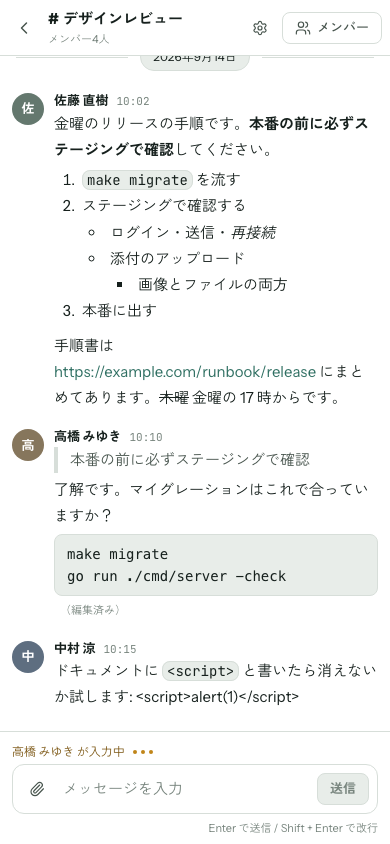
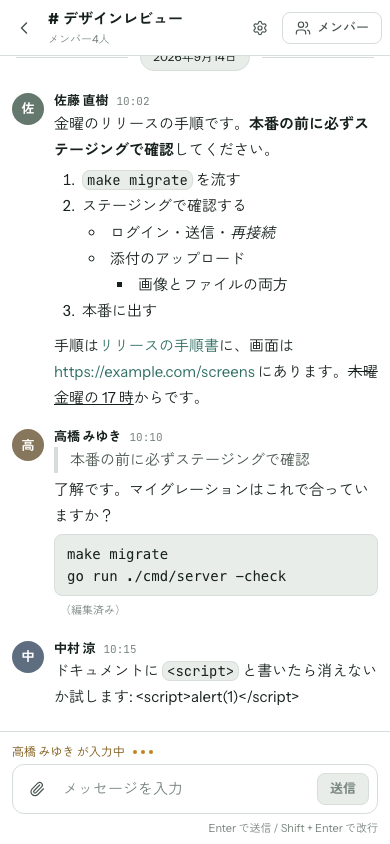
feat(web): 本文の記法に下線と文字付きのリンクを足す（Phase 6.10b の構築順 2）
ADR 0051 の追記。Slack にある下線（__下線__）と、貼り付けで文字と URL の両方を残すための
文字付きのリンク（<URL|文字>）を解釈して表示する。文字付きのリンクは URL をホバーで見せる。
文字に < > ` と改行を使えないのは、サーバーと Web でメンションの数え方をずらさないためで、
その例を testdata/format/mentions.json に足した（サーバーは変更なしで通る）。
ADR 0052 に Slack の公式のツールバーの並びとショートカット、ツールバーの表示・非表示を追記した。

Changed region(s): [[0.1231, 0.4005, 0.9846, 0.4929], [0.2154, 0.4005, 0.3077, 0.4313]]

diff --git a/web/lib/chat/body-format.ts b/web/lib/chat/body-format.ts
@@ -7,16 +7,18 @@
  * 記法（mrkdwn 寄り。ADR 0051 決定 2）
  *
  *   ブロック: ```コード```  / 行頭の `> ` 引用 / 行頭の `- ` `* ` `• ` 箇条書き / 行頭の `1. ` 番号付き
- *   インライン: `code` / *太字* / _斜体_ / ~取り消し~ / https://… / <@ULID> <!channel> <!here>
+ *   インライン: `code` / *太字* / _斜体_ / __下線__ / ~取り消し~ / https://… / <https://…|文字> / <@ULID> <!channel> <!here>
+ *   （下線と文字付きのリンクは ADR 0051 決定 4 の追記と、同じく下線の追記）
  *
  * 規則の具体例は body-format.test.ts が正本。コードの範囲の規則はサーバー（internal/chat/mention）にも同じものがある（ADR 0051 決定 5）。
  */
 
 export type Inline =
   | { type: "text"; text: string }
-  | { type: "bold" | "italic" | "strike"; children: Inline[] }
+  | { type: "bold" | "italic" | "underline" | "strike"; children: Inline[] }
   | { type: "code"; text: string }
-  | { type: "link"; url: string }
+  /** label は文字付きのリンク（`<URL|文字>`）の文字。URL だけのリンクでは undefined。 */
+  | { type: "link"; url: string; label?: string }
   | { type: "mention"; kind: "user"; id: string; raw: string }
   | { type: "mention"; kind: "channel" | "here"; raw: string };
 
@@ -47,6 +49,13 @@ const LIST_LINE = /^( *)(?:([-*•])|(\d{1,9})\.) (.*)$/u;
 /** 引用の行。`>` の後ろの空白 1 つは記号の一部として落とす。 */
 const QUOTE_LINE = /^>(?: |$)(.*)$/u;
 
+/**
+ * 文字付きのリンク（`<https://…|文字>`。ADR 0051 決定 4 の追記）。
+ * 文字には `<` `>` `` ` `` と改行を使えない。サーバーはコードの範囲とメンションしか読まないので、文字の中にバッククォートや `<` を許すと、
+ * サーバーと Web で「どれがメンションか」の読み方がずれる（testdata/format/mentions.json に例がある）。
+ */
+const LABELED_LINK = /^<(https?:\/\/[^\s<>`|]+)\|([^<>`\n]+)>/u;
+
 /** メンションのトークン（ADR 0041）。ULID の厳密な検証は表示ではしない（mentions.ts と同じ理由）。 */
 const MENTION = /^(?:<@([0-9A-Za-z]{26})>|<!(channel|here)>)/u;
 
@@ -58,6 +67,9 @@ const URL_EXCLUDED = new Set(["<", ">", "`"]);
 const URL_TRAILING = /[.,;:!?)\]}'"*_~]+$/u;
 
 const EMPHASIS: Readonly<Record<string, "bold" | "italic" | "strike">> = { "*": "bold", _: "italic", "~": "strike" };
+
+/** 下線の記号（ADR 0051 の下線の追記）。斜体の `_` を 2 つ重ねた形。 */
+const UNDERLINE = "__";
 
 /** 本文を木に分ける。 */
 export function parseBody(body: string): Block[] {
@@ -161,12 +173,14 @@ export function parseInline(text: string): Inline[] {
       i = atom.end;
       continue;
     }
-    const kind = EMPHASIS[text[i]];
-    const close = kind ? findCloser(text, i) : -1;
+    // 下線（`__`）は斜体（`_`）より先に見る。`__` は斜体の開く記号にならない（findCloser）
+    const marker = text.startsWith(UNDERLINE, i) ? UNDERLINE : text[i];
+    const kind = marker === UNDERLINE ? "underline" : EMPHASIS[marker];
+    const close = kind ? findCloser(text, i, marker) : -1;
     if (kind && close > 0) {
       flush();
-      out.push({ type: kind, children: parseInline(text.slice(i + 1, close)) });
-      i = close + 1;
+      out.push({ type: kind, children: parseInline(text.slice(i + marker.length, close)) });
+      i = close + marker.length;
       continue;
     }
     plain += text[i];
@@ -187,6 +201,8 @@ function readAtom(text: string, i: number): { node: Inline; end: number } | null
     return null;
   }
   if (c === "<") {
+    const labeled = LABELED_LINK.exec(text.slice(i));
+    if (labeled) return { node: { type: "link", url: labeled[1], label: labeled[2] }, end: i + labeled[0].length };
     const m = MENTION.exec(text.slice(i));
     if (!m) return null;
     const raw = m[0];
@@ -206,17 +222,17 @@ function readAtom(text: string, i: number): { node: Inline; end: number } | null
 }
 
 /**
- * i にある書式の記号（`*` `_` `~`）が開く記号なら、対になる閉じる記号の位置を返す。なければ -1。
+ * i にある書式の記号（`*` `_` `__` `~`）が開く記号なら、対になる閉じる記号の位置を返す。なければ -1。
  *
  * 境界は「ASCII の英数字でないこと」（ADR 0051 決定 2）。日本語の文字は境界になるので `これは*太字*です` は太字になり、
  * `snake_case` や `2*3*4` はならない。開く記号の直後と閉じる記号の直前は空白であってはいけない。
  * 中のインラインコード・メンション・URL は飛ばして探す（`*a `*` b*` の真ん中の `*` で閉じない）。
+ * 斜体の `_` を探すときは下線の `__` を飛ばす（`_a __b__ c_` の `b__` で斜体を閉じない）。
  */
-function findCloser(text: string, i: number): number {
-  const marker = text[i];
-  const next = text[i + 1];
-  if (isWordChar(text[i - 1]) || next === undefined || /\s/u.test(next) || next === marker) return -1;
-  let j = i + 1;
+function findCloser(text: string, i: number, marker: string): number {
+  const next = text[i + marker.length];
+  if (isWordChar(text[i - 1]) || next === undefined || /\s/u.test(next) || next === marker[0]) return -1;
+  let j = i + marker.length;
   while (j < text.length) {
     const c = text[j];
     if (c === "\n") return -1;
@@ -225,7 +241,17 @@ function findCloser(text: string, i: number): number {
       j = atom.end;
       continue;
     }
-    if (c === marker && !/\s/u.test(text[j - 1]) && !isWordChar(text[j + 1])) return j;
+    if (marker === "_" && text.startsWith(UNDERLINE, j)) {
+      j += UNDERLINE.length;
+      continue;
+    }
+    if (
+      text.startsWith(marker, j) &&
+      !/\s/u.test(text[j - 1]) &&
+      !isWordChar(text[j + marker.length]) &&
+      text[j + marker.length] !== marker[0]
+    )
+      return j;
     j++;
   }
   return -1;
@@ -280,7 +306,7 @@ export function findUrls(body: string): string[] {
   const inline = (nodes: Inline[]) => {
     for (const node of nodes) {
       if (node.type === "link") urls.push(node.url);
-      else if (node.type === "bold" || node.type === "italic" || node.type === "strike") inline(node.children);
+      else if ("children" in node) inline(node.children);
     }
   };
   const block = (b: Block) => {

diff --git a/web/lib/chat/body-format.test.ts b/web/lib/chat/body-format.test.ts
@@ -10,6 +10,7 @@ const text = (t: string): Inline => ({ type: "text", text: t });
 const bold = (...children: Inline[]): Inline => ({ type: "bold", children });
 const italic = (...children: Inline[]): Inline => ({ type: "italic", children });
 const strike = (...children: Inline[]): Inline => ({ type: "strike", children });
+const underline = (...children: Inline[]): Inline => ({ type: "underline", children });
 const code = (t: string): Inline => ({ type: "code", text: t });
 const link = (url: string): Inline => ({ type: "link", url });
 const para = (...children: Inline[]): Block => ({ type: "paragraph", children });
@@ -50,6 +51,46 @@ describe("parseInline（ADR 0051 決定 2）", () => {
     ["太字の中のメンション", "*<!here>*", [bold({ type: "mention", kind: "here", raw: "<!here>" })]],
     ["トークンに見えない文字列はそのまま", "@alice <@01J8> <!everyone>", [text("@alice <@01J8> <!everyone>")]],
     ["<script> はただの文字", "<script>alert(1)</script>", [text("<script>alert(1)</script>")]],
+  ])("%s", (_name, input, want) => {
+    expect(parseInline(input)).toEqual(want);
+  });
+});
+
+describe("下線（ADR 0051 の下線の追記）", () => {
+  it.each<[string, string, Inline[]]>([
+    ["下線", "__下線__", [underline(text("下線"))]],
+    ["日本語の文中でも効く", "ここは__大事__です", [text("ここは"), underline(text("大事")), text("です")]],
+    ["英数字に挟まれた __ は書式にしない", "a__b__c", [text("a__b__c")]],
+    // 行頭や空白の後に単独で書いた `__init__` は、境界の規則どおり下線になる（コードとして書くならバッククォートで囲む）
+    ["単独の __init__ は下線になる", "__init__", [underline(text("init"))]],
+    ["斜体の中の下線", "_a __b__ c_", [italic(text("a "), underline(text("b")), text(" c"))]],
+    ["下線の中の太字", "__*両方*__", [underline(bold(text("両方")))]],
+    ["閉じていない下線はただの文字", "__下線", [text("__下線")]],
+  ])("%s", (_name, input, want) => {
+    expect(parseInline(input)).toEqual(want);
+  });
+});
+
+describe("文字付きのリンク（ADR 0051 決定 4 の追記）", () => {
+  const labeled = (url: string, label: string): Inline => ({ type: "link", url, label });
+  it.each<[string, string, Inline[]]>([
+    ["文字付きのリンク", "<https://example.com/docs|手順書>", [labeled("https://example.com/docs", "手順書")]],
+    ["文中に置ける", "詳しくは<https://example.com|こちら>へ", [text("詳しくは"), labeled("https://example.com", "こちら"), text("へ")]],
+    ["太字の中に置ける", "*<https://example.com|大事なリンク>*", [bold(labeled("https://example.com", "大事なリンク"))]],
+    ["文字の中は解釈しない", "<https://example.com|*太字* _斜体_>", [labeled("https://example.com", "*太字* _斜体_")]],
+    ["http / https でなければただの文字", "<javascript:alert(1)|押して>", [text("<javascript:alert(1)|押して>")]],
+    [
+      "文字にバッククォートがあれば文字付きのリンクにしない（コードとして読む）",
+      "<https://example.com|a`b>`",
+      [text("<"), link("https://example.com|a"), code("b>")],
+    ],
+    [
+      "文字に < があれば文字付きのリンクにしない",
+      "<https://example.com|a <!here>>",
+      [text("<"), link("https://example.com|a"), text(" "), { type: "mention", kind: "here", raw: "<!here>" }, text(">")],
+    ],
+    ["文字が空なら文字付きのリンクにしない", "<https://example.com|>", [text("<"), link("https://example.com|"), text(">")]],
+    ["コードの中は解釈しない", "`<https://example.com|x>`", [code("<https://example.com|x>")]],
   ])("%s", (_name, input, want) => {
     expect(parseInline(input)).toEqual(want);
   });
@@ -181,7 +222,7 @@ function mentionTokens(blocks: Block[]): string[] {
   const inline = (nodes: Inline[]) => {
     for (const node of nodes) {
       if (node.type === "mention") found.push(node.raw);
-      else if (node.type === "bold" || node.type === "italic" || node.type === "strike") inline(node.children);
+      else if ("children" in node) inline(node.children);
     }
   };
   const block = (b: Block) => {

diff --git a/web/components/chat/message-body.tsx b/web/components/chat/message-body.tsx
@@ -133,6 +133,12 @@ function InlineView({ node, ctx }: { node: Inline; ctx: RenderContext }) {
           <Inlines nodes={node.children} ctx={ctx} />
         </em>
       );
+    case "underline":
+      return (
+        <u className="underline">
+          <Inlines nodes={node.children} ctx={ctx} />
+        </u>
+      );
     case "strike":
       return (
         <s className="line-through">
@@ -144,19 +150,28 @@ function InlineView({ node, ctx }: { node: Inline; ctx: RenderContext }) {
         <code className="rounded-sm border border-border bg-surface-muted px-1 font-mono text-base text-text">{node.text}</code>
       );
     case "link": {
-      if (!ctx.interactive) return <span className="text-primary">{node.url}</span>;
+      // 文字付きのリンク（ADR 0051 決定 4 の追記）は文字を出し、行き先の URL をホバーで見せる。
+      // 文字と行き先が違うリンクは、行き先を隠したなりすましに使えるため
+      const text = node.label ?? node.url;
+      const title = node.label === undefined ? undefined : node.url;
+      if (!ctx.interactive)
+        return (
+          <span title={title} className="text-primary">
+            {text}
+          </span>
+        );
       // パーマリンクはアプリの中を移るので、同じタブで飛ぶ（ADR 0051 決定 4。飛ぶ仕組みは ADR 0042）
       const permalink = ctx.origin === undefined ? null : parsePermalink(node.url, ctx.origin);
       if (permalink)
         return (
-          <Link href={permalinkPath(permalink)} className="text-primary hover:underline">
-            {node.url}
+          <Link href={permalinkPath(permalink)} title={title} className="text-primary hover:underline">
+            {text}
           </Link>
         );
       return (
         // 別のタブで開く（オーナーの要望。ADR 0051 決定 4）。開いた先から window.opener を触らせない
-        <a href={node.url} target="_blank" rel="noopener noreferrer" className="text-primary hover:underline">
-          {node.url}
+        <a href={node.url} title={title} target="_blank" rel="noopener noreferrer" className="text-primary hover:underline">
+          {text}
         </a>
       );
     }

diff --git a/web/components/chat/message-body.test.tsx b/web/components/chat/message-body.test.tsx
@@ -161,4 +161,34 @@ describe("MessageBody の書式（ADR 0051）", () => {
     expect(screen.getByText("@田中 あおい")).toHaveClass("text-primary");
     expect(screen.getByText("https://example.com")).toHaveClass("text-primary");
   });
+
+  it("下線は u 要素で出す（ADR 0051 の下線の追記）", () => {
+    render(<MessageBody body="ここは__大事__です" />);
+
+    expect(screen.getByText("大事").tagName).toBe("U");
+  });
+
+  it("文字付きのリンクは文字をリンクにし、行き先の URL をホバーで見せる（ADR 0051 決定 4 の追記）", () => {
+    render(<MessageBody body="<https://example.com/docs|手順書> を見てください" />);
+
+    const link = screen.getByRole("link", { name: "手順書" });
+    expect(link).toHaveAttribute("href", "https://example.com/docs");
+    expect(link).toHaveAttribute("title", "https://example.com/docs");
+    expect(link).toHaveAttribute("target", "_blank");
+  });
+
+  it("URL だけのリンクには title を付けない（文字がそのまま行き先なので）", () => {
+    render(<MessageBody body="https://example.com" />);
+
+    expect(screen.getByRole("link")).not.toHaveAttribute("title");
+  });
+
+  it("文字付きのパーマリンクも同じタブで飛ぶ", () => {
+    const ids = "01J9ZQZQZQZQZQZQZQZQZQZQZ";
+    render(<MessageBody body={`<${window.location.origin}/w/${ids}A/r/${ids}B?m=${ids}C|この発言>`} />);
+
+    const link = screen.getByRole("link", { name: "この発言" });
+    expect(link).toHaveAttribute("href", `/w/${ids}A/r/${ids}B?m=${ids}C`);
+    expect(link).not.toHaveAttribute("target");
+  });
 });

diff --git a/web/stories/fixtures.ts b/web/stories/fixtures.ts
@@ -490,7 +490,7 @@ export const timelineWithFormatting: TimelineItem[] = [
     "10:02",
     "金曜のリリースの手順です。*本番の前に必ずステージングで確認*してください。\n1. `make migrate` を流す\n2. ステージングで確認する\n  - ログイン・送信・_再接続_\n  - 添付のアップロード\n    - 画像とファイルの両方\n3. 本番に出す",
   ),
-  message("m-f02", naoki, "10:03", "手順書は https://example.com/runbook/release にまとめてあります。~木曜~ 金曜の 17 時からです。", {
+  message("m-f02", naoki, "10:03", "手順は<https://example.com/runbook/release|リリースの手順書>に、画面は https://example.com/screens にあります。~木曜~ __金曜の 17 時__からです。", {
     grouped: true,
   }),
   message("m-f03", miyuki, "10:10", "> 本番の前に必ずステージングで確認\n了解です。マイグレーションはこれで合っていますか？\n```\nmake migrate\ngo run ./cmd/server -check\n```", {

diff --git a/web/lib/chat/links.test.ts b/web/lib/chat/links.test.ts
@@ -123,6 +123,10 @@ describe("findPermalinks", () => {
     expect(findPermalinks(`${permalink}を見て`, ORIGIN)).toEqual([{ workspaceId: WS, roomId: ROOM, messageId: MSG }]);
   });
 
+  it("文字付きのリンクのパーマリンクもカードにする（ADR 0051 決定 4 の追記）", () => {
+    expect(findPermalinks(`<${permalink}|この発言>`, ORIGIN)).toEqual([{ workspaceId: WS, roomId: ROOM, messageId: MSG }]);
+  });
+
   it("リンクのない本文では空", () => {
     expect(findPermalinks("ただの本文です https://example.com も混ざる", ORIGIN)).toEqual([]);
   });

diff --git a/docs/roadmap.md b/docs/roadmap.md
@@ -797,6 +797,7 @@ DoD の 3 項目は表示だけで満たせる。
 - ライブラリは Lexical（大きさは Tiptap とほぼ同じで、保存の形との噛み合いと IME で選んだ）
 - 入力の補助はツールバー + ショートカット + 記号の入力（`*太字*` と打つとその場で太字になる）
 - ほかのページから貼り付けた書式を残す（Slack と同じ）。そのために ADR 0051 の記法に文字付きのリンク `<URL|文字>` を足す（ADR 0051 決定 4 の追記）
+- Slack のツールバーにある下線も持つ（ADR 0051 に `__下線__` を追記）。ツールバーは表示・非表示を切り替えられる（ADR 0052 の追記）
 
 **ADR で決めること** ← 完了（ADR 0052。オーナーの確認: 2026-09-21）
 - ライブラリ → **Lexical**。版を固定し、import するのは `components/chat/editor/` だけ
@@ -809,8 +810,9 @@ DoD の 3 項目は表示だけで満たせる。
 
 **構築順**（PR を分ける）
 1. 設計（ADR 0052） ← このフェーズの最初の PR
-2. デザイン: ツールバー（デスクトップとモバイル）とリンクを入れる画面、入力欄の中の書式とメンションのチップ、キャレットの位置の補完、編集欄、本文の文字付きのリンク。story に描いて `docs/ui/` に足し、オーナーに見てもらう
-3. 記法の追加: `<URL|文字>` の解釈と表示（`body-format.ts` / `MessageBody`。`testdata/format/mentions.json` に読み方がずれやすい例を足す）
+2. 記法の追加: `<URL|文字>` と `__下線__` の解釈と表示（`body-format.ts` / `MessageBody`。`testdata/format/mentions.json` に読み方がずれやすい例を足す）← 完了
+   （デザインより先にした。ツールバーの下線とリンクのボタンが作るものを先に決めておかないと、story で押した結果を見せられないため）
+3. デザイン: ツールバー（デスクトップとモバイル、表示・非表示の切り替え）とリンクを入れる画面、入力欄の中の書式とメンションのチップ、キャレットの位置の補完、編集欄。story に描いて `docs/ui/` に足し、オーナーに見てもらう
 4. エディタの芯: `components/chat/editor/` に読み込み・書き出し・メンションのノード。往復のテストを厚くする
 5. つなぎ込み: 入力欄と編集欄を置き換え、ツールバー・ショートカット・記号の入力・補完・貼り付け。`toWireBody` / `toInputBody` を消す
 
